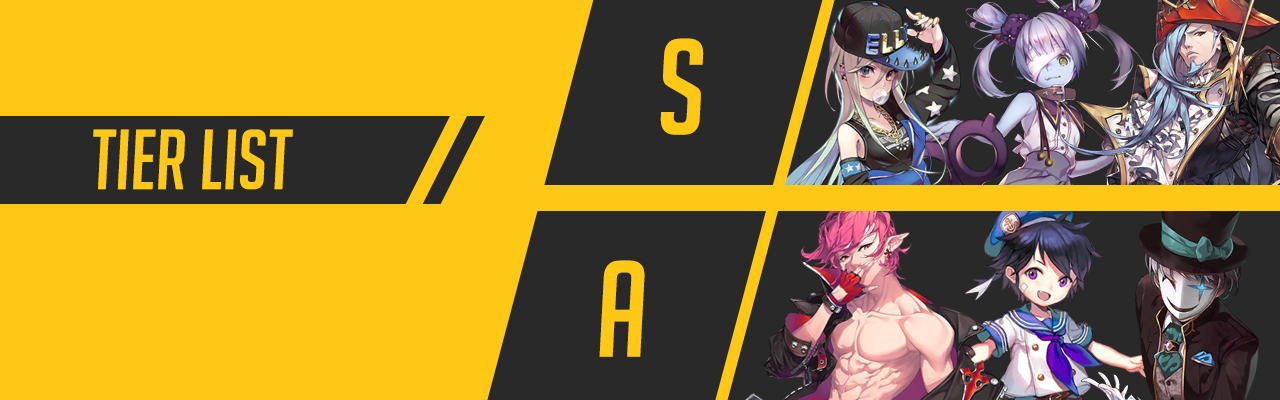
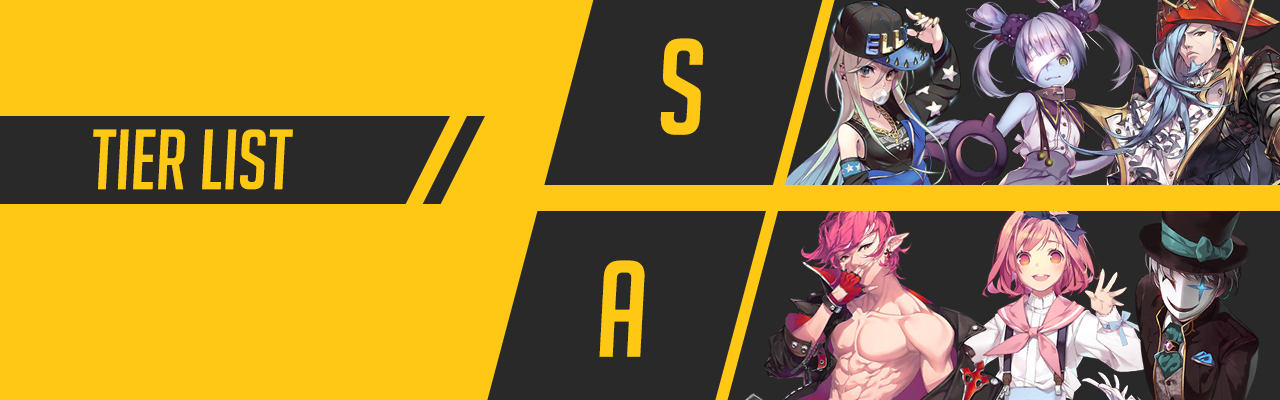
rebalance tier list, change style

Changed region(s): [[0.75, 0.51, 0.9062, 1.0]]

diff --git a/tier.html b/tier.html
@@ -4,7 +4,7 @@
     <link href="css/bootstrap.min.css" rel="stylesheet">
 	<link href="css/all.css" rel="stylesheet">
     <link href="css/style.css" rel="stylesheet">
-    <title>TapTop Archive</title>
+    <title>TapTop Archive | Tier List</title>
 </head>
 <body>
     
@@ -24,12 +24,20 @@
 				</div>
             
                 <br><br>
-
-                
+                <hr style="background-color: white;">
+                <div class="text-white">
+                    <h4>Important Points</h4>
+                    <i class="fas fa-caret-right" style="color:#FFC815;"></i> This rank are based on stars usefulness, base stat, usage difficulty<br>
+                    <i class="fas fa-caret-right" style="color: #FFC815;"></i> Rank are based on character highest skill and level <br>
+                    <i class="fas fa-caret-right" style="color: #FFC815;"></i> The tier list may change over time following game updates <br>
+                    <i class="fas fa-caret-right" style="color: #FFC815;"></i> At the end of the day a tier list is just a tool to help you find useful stars. <br>
+                </div>
+                <hr style="background-color: white;">
+                <br>
                 <div class="card mb-3 bg-dark text-white">
                     <div class="row no-gutters">
                         <div class="col-md-3">
-                            <img src="asset/angeltier.jpg" class="card-img rounded" alt="angel tier" height="100%">
+                            <img src="asset/tieremblemdetail_angel.png" class="card-img rounded" alt="angel tier">
                         </div>
                         <div class="col-md-9">
                             <div class="card-body">
@@ -58,12 +66,14 @@
 
                 <div class="card mb-3 bg-dark text-white">
                     <div class="row no-gutters">
-                        <div class="col-md-3">
-                            <img src="asset/s_tier.jpg" class="card-img rounded" alt="s tier" height="100%">
+                        <div class="col-md-3" id="centering">
+                            <img src="asset/tieremblemdetail_s.png" class="card-img" alt="s tier">
+                            <!-- <div id="centering">
+                                <h4>The META Unit</h4>
+                            </div> -->
                         </div>
                         <div class="col-md-9">
                             <div class="card-body">
-                                
                                 <div class="table-responsive">
                                     <table id="tierlist" class="table-borderless">
                                         <tr>
@@ -136,7 +146,7 @@
                 <div class="card mb-3 bg-dark text-white">
                     <div class="row no-gutters">
                         <div class="col-md-3">
-                            <img src="asset/a_tier.jpg" class="card-img rounded" alt="a tier" height="100%">
+                            <img src="asset/tieremblemdetail_a.png" class="card-img rounded" alt="a tier">
                         </div>
                         <div class="col-md-9">
                             <div class="card-body">
@@ -177,6 +187,7 @@
                                             <td><img src="asset/pixel/ava.png"></td>
                                             <td><img src="asset/pixel/uriel.png"></td>
                                             <td><img src="asset/pixel/tallia.png"></td>
+                                            <td><img src="asset/pixel/joke.png"></td>
                                         </tr>
                                         <tr>
                                             <td><span class="badge badge-pill" style="background-color:#9DBFF9;color: #292929;">Eve</span></td>
@@ -188,6 +199,7 @@
                                             <td><span class="badge badge-pill" style="background-color:#A5D6A7;color: #292929;">Ava</span></td>
                                             <td><span class="badge badge-pill" style="background-color:#A5D6A7;color: #292929;">Uriel</span></td>
                                             <td><span class="badge badge-pill" style="background-color:#A5D6A7;color: #292929;">Tallia</span></td>
+                                            <td><span class="badge badge-pill" style="background-color:#A5D6A7;color: #292929;">Joke</span></td>
                                         </tr>
                                         
                                     </table>
@@ -202,7 +214,7 @@
                 <div class="card mb-3 bg-dark text-white">
                     <div class="row no-gutters">
                         <div class="col-md-3">
-                            <img src="asset/b_tier.jpg" class="card-img rounded" alt="b tier" height="100%">
+                            <img src="asset/tieremblemdetail_b.png" class="card-img rounded" alt="b tier">
                         </div>
                         <div class="col-md-9">
                             <div class="card-body">
@@ -214,9 +226,9 @@
                                             <td><img src="asset/pixel/elfail.png"></td>
                                             <td><img src="asset/pixel/bell.png"></td>
                                             <td><img src="asset/pixel/angela.png"></td>
-                                            <td><img src="asset/pixel/joke.png"></td>
-                                            <td><img src="asset/pixel/medusa.png"></td>
                                             <td><img src="asset/pixel/joy.png"></td>
+                                            <td><img src="asset/pixel/cynthia.png"></td>
+                                            <td><img src="asset/pixel/medusa.png"></td>
                                         </tr>
                                         <tr>
                                             <td><span class="badge badge-pill" style="background-color:#EF9A9A;color: #292929;">Suah</span></td>
@@ -224,9 +236,9 @@
                                             <td><span class="badge badge-pill" style="background-color:#EF9A9A;color: #292929;">El Fail</span></td>
                                             <td><span class="badge badge-pill" style="background-color:#EF9A9A;color: #292929;">Bell</span></td>
                                             <td><span class="badge badge-pill" style="background-color:#EF9A9A;color: #292929;">Angela</span></td>
-                                            <td><span class="badge badge-pill" style="background-color:#A5D6A7;color: #292929;">Joke</span></td>
-                                            <td><span class="badge badge-pill" style="background-color:#A5D6A7;color: #292929;">Medusa</span></td>
                                             <td><span class="badge badge-pill" style="background-color:#A5D6A7;color: #292929;">Joy</span></td>
+                                            <td><span class="badge badge-pill" style="background-color:#A5D6A7;color: #292929;">Cynthia</span></td>
+                                            <td><span class="badge badge-pill" style="background-color:#A5D6A7;color: #292929;">Medusa</span></td>
                                         </tr>
                                         
                                         <tr>
@@ -264,7 +276,7 @@
                 <div class="card mb-3 bg-dark text-white">
                     <div class="row no-gutters">
                         <div class="col-md-3">
-                            <img src="asset/c_tier.jpg" class="card-img rounded" alt="c tier" height="100%">
+                            <img src="asset/tieremblemdetail_c.png" class="card-img rounded" alt="c tier">
                         </div>
                         <div class="col-md-9">
                             <div class="card-body">
@@ -289,7 +301,6 @@
                                             <td><img src="asset/pixel/zeke.png"></td>
                                             <td><img src="asset/pixel/hyeonie.png"></td>
                                             <td><img src="asset/pixel/girlwing.png"></td>
-                                            <td><img src="asset/pixel/cynthia.png"></td>
                                             <td><img src="asset/pixel/wolfgang.png"></td>
                                             <td><img src="asset/pixel/axel.png"></td>
                                         </tr>
@@ -297,7 +308,6 @@
                                             <td><span class="badge badge-pill" style="background-color:#9DBFF9;color: #292929;">Zeke</span></td>
                                             <td><span class="badge badge-pill" style="background-color:#9DBFF9;color: #292929;">Hyeonie</span></td>
                                             <td><span class="badge badge-pill" style="background-color:#9DBFF9;color: #292929;">Girl Wing</span></td>
-                                            <td><span class="badge badge-pill" style="background-color:#A5D6A7;color: #292929;">Cynthia</span></td>
                                             <td><span class="badge badge-pill" style="background-color:#A5D6A7;color: #292929;">Wolfgang</span></td>
                                             <td><span class="badge badge-pill" style="background-color:#A5D6A7;color: #292929;">Axel</span></td>
                                         </tr>

diff --git a/index.html b/index.html
@@ -126,7 +126,7 @@
                 <div class="card border-dark">
                     <img src="asset/tier_thumb.jpg" class="card-img-top" alt="x2image">
                     <div class="card-body bg-dark text-white">
-                      <p class="card-text">The tier list of Tap Top stars based usefulness </p>
+                      <p class="card-text">The tier list of Tap Top stars based on usefulness </p>
                       <a href="tier.html" type="button" class="btn btn-warning"><strong>Tier List <i class="fas fa-caret-right"></i></a></strong>
                     </div>
                 </div>
